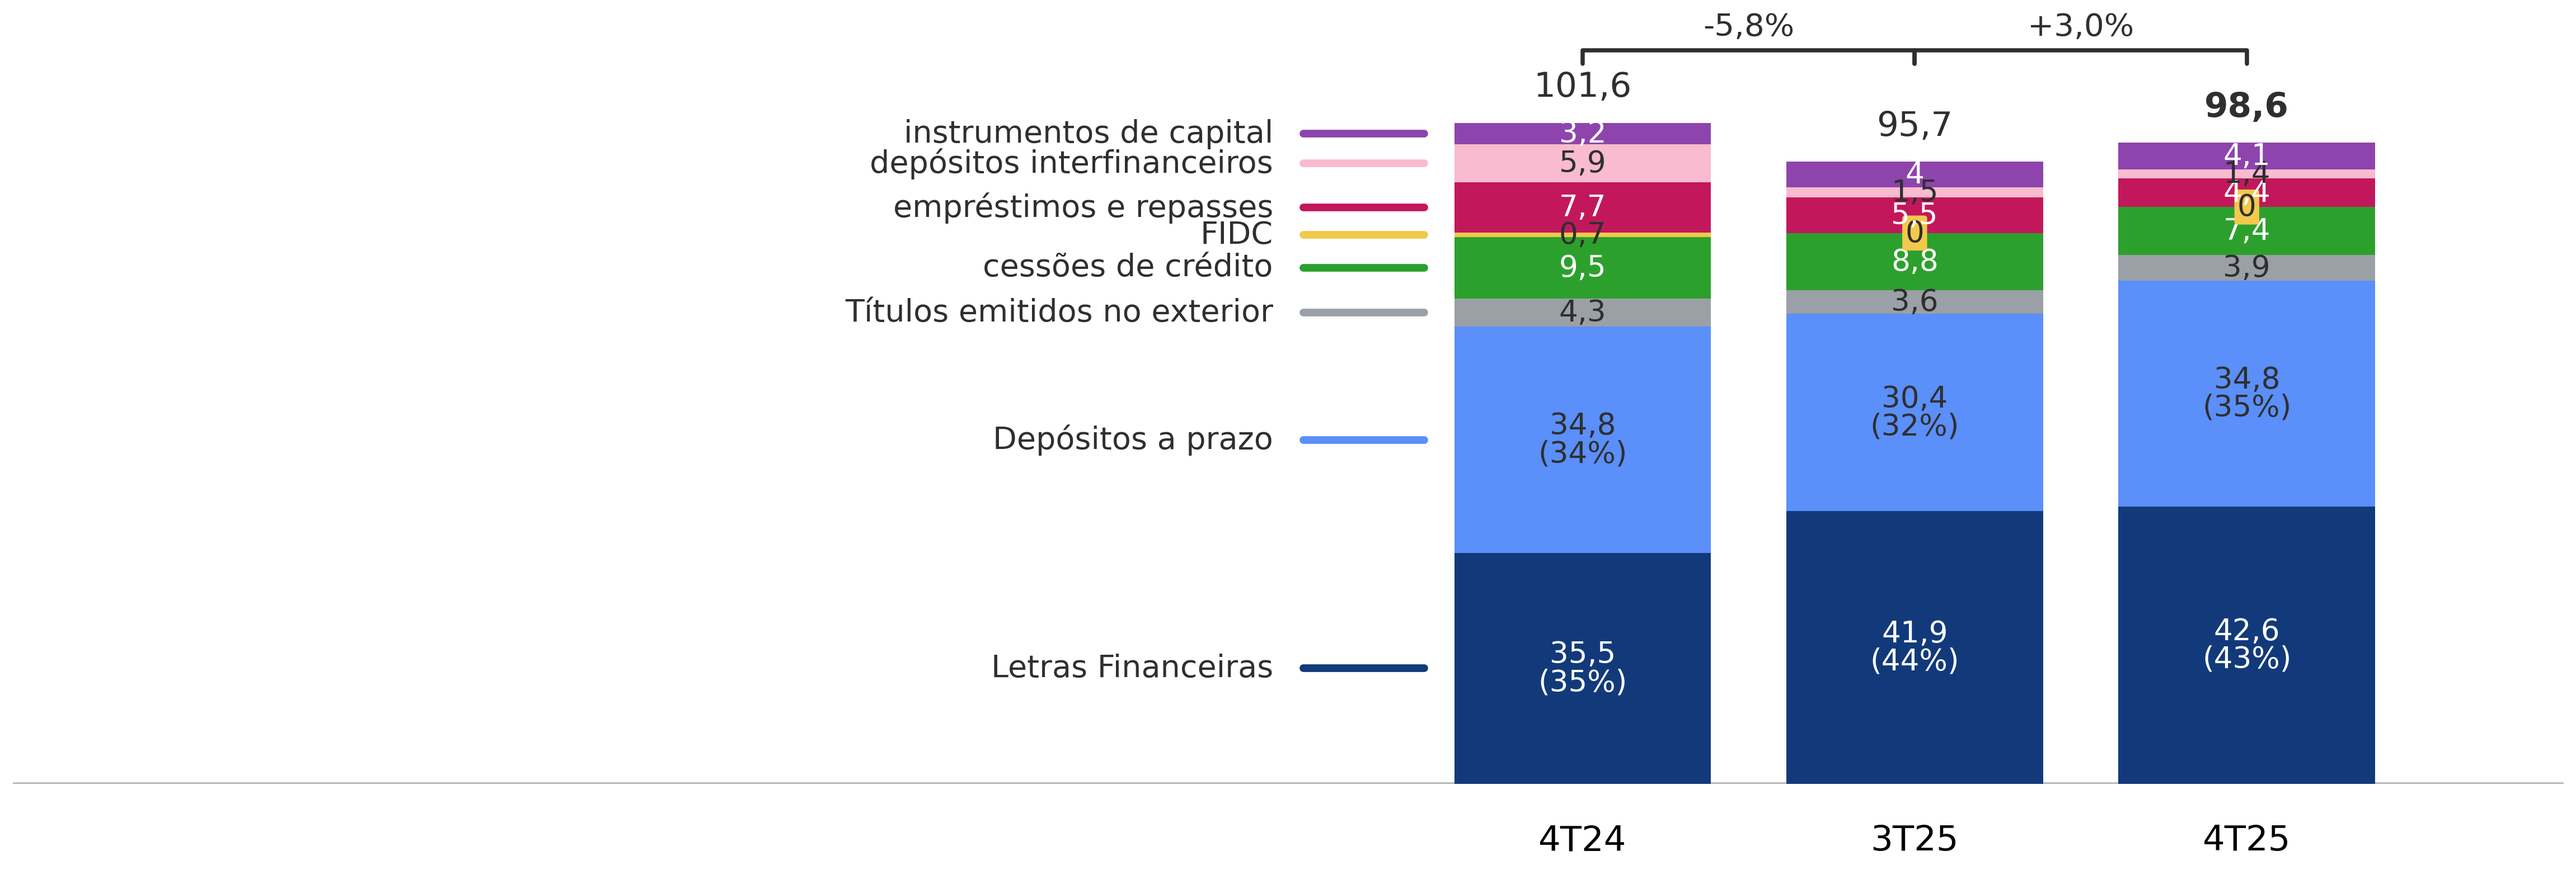
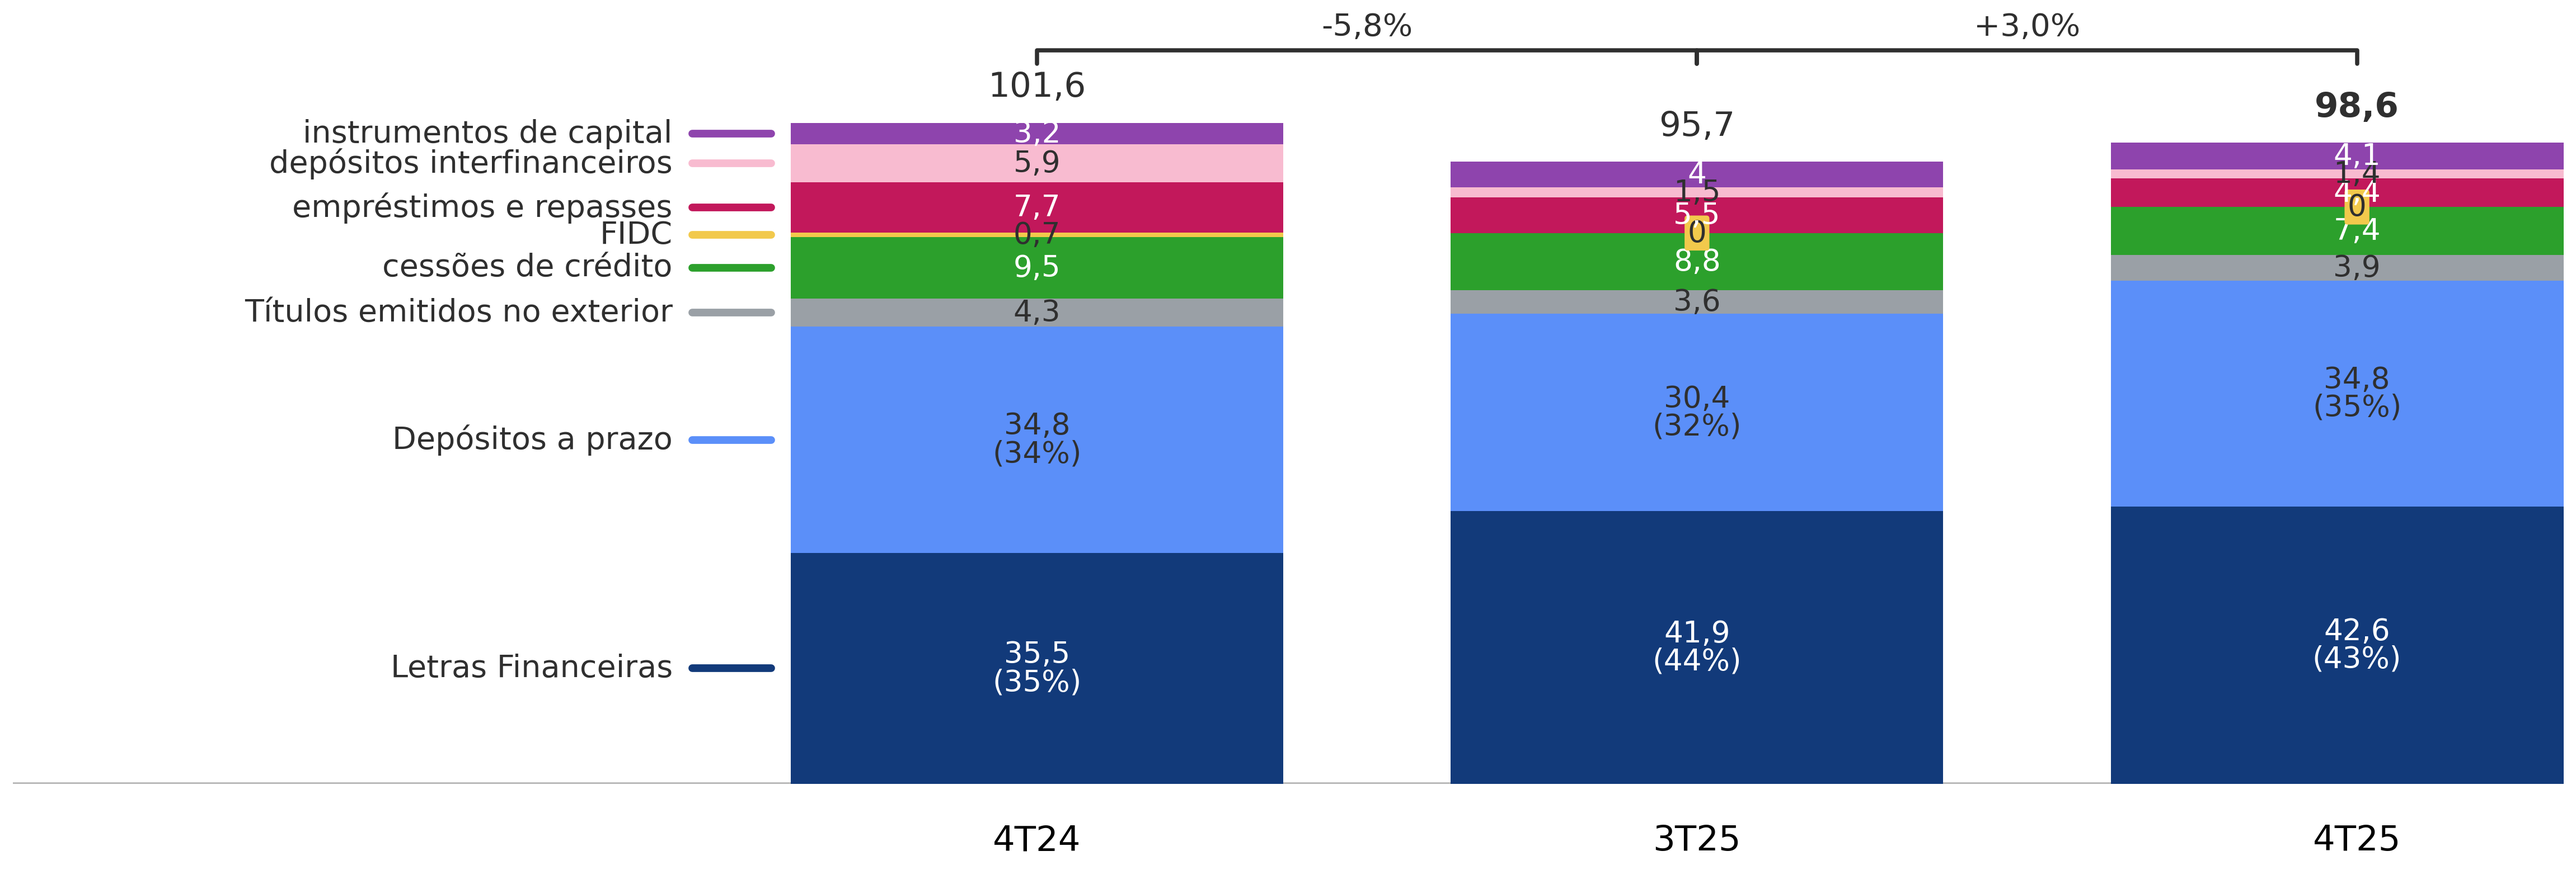
adjustements

diff --git a/utils/slide15_charts.py b/utils/slide15_charts.py
@@ -22,8 +22,8 @@ SLIDE15_COLORS = (
     "#F8BBD0",
     "#8E44AD",
 )
-SLIDE15_BAR_SLOT = 0.44
-SLIDE15_BAR_WIDTH = 0.34
+SLIDE15_BAR_SLOT = 1.34
+SLIDE15_BAR_WIDTH = 1.0
 SLIDE15_INNER_LABEL_FONT_SCALE = 1.0
 SLIDE15_BADGE_PAD = 0.10
 
